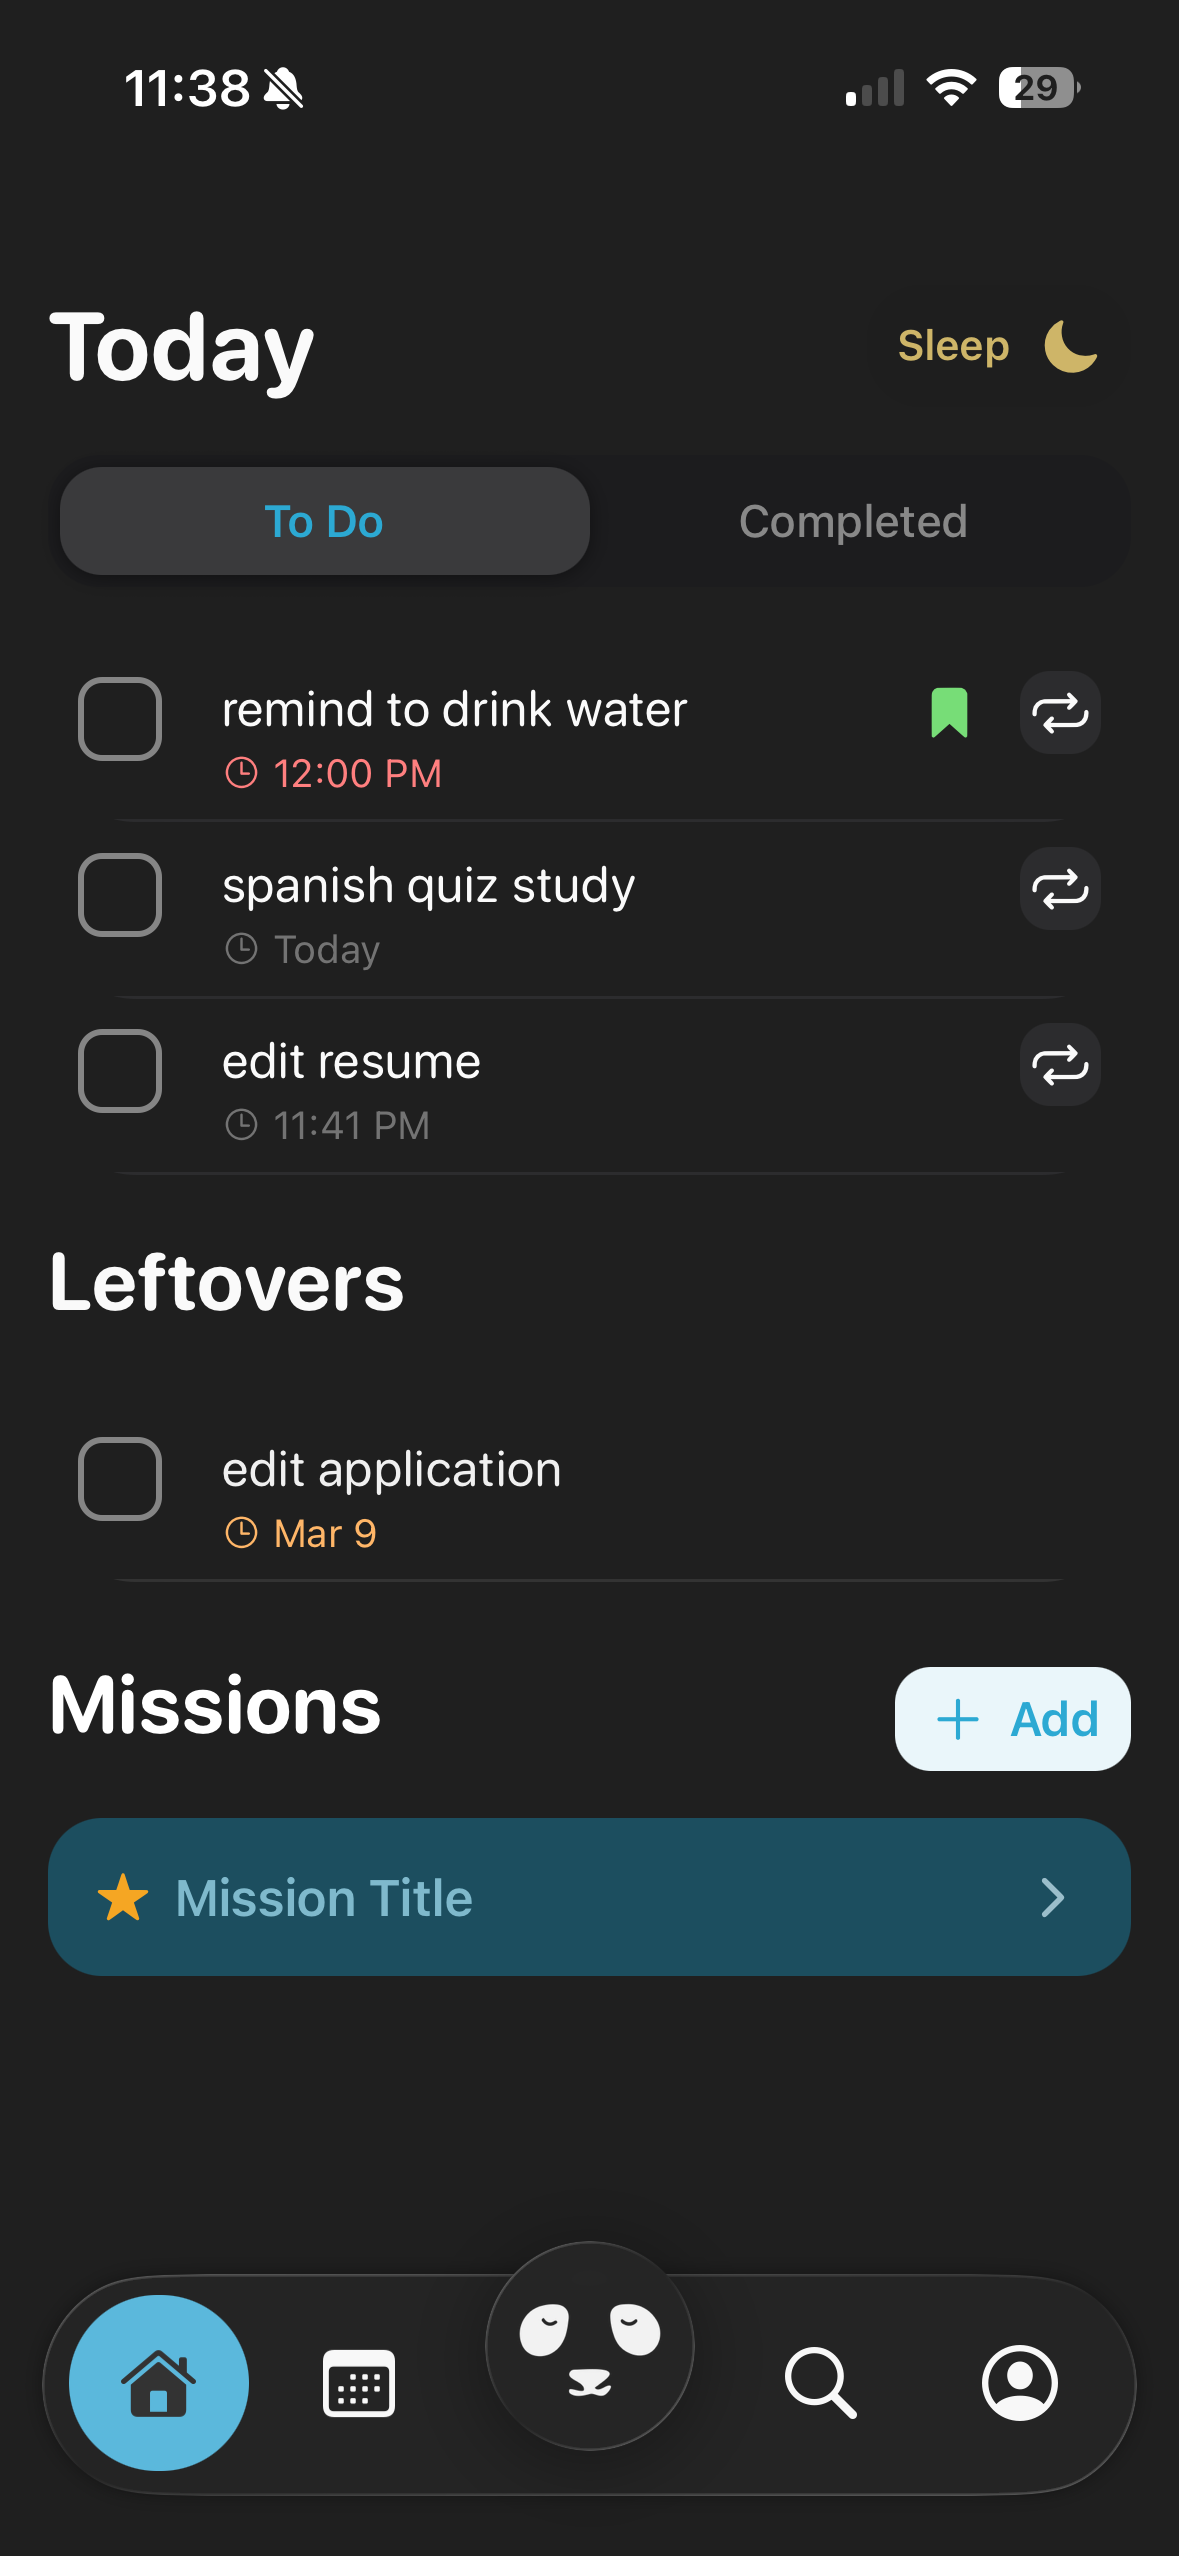
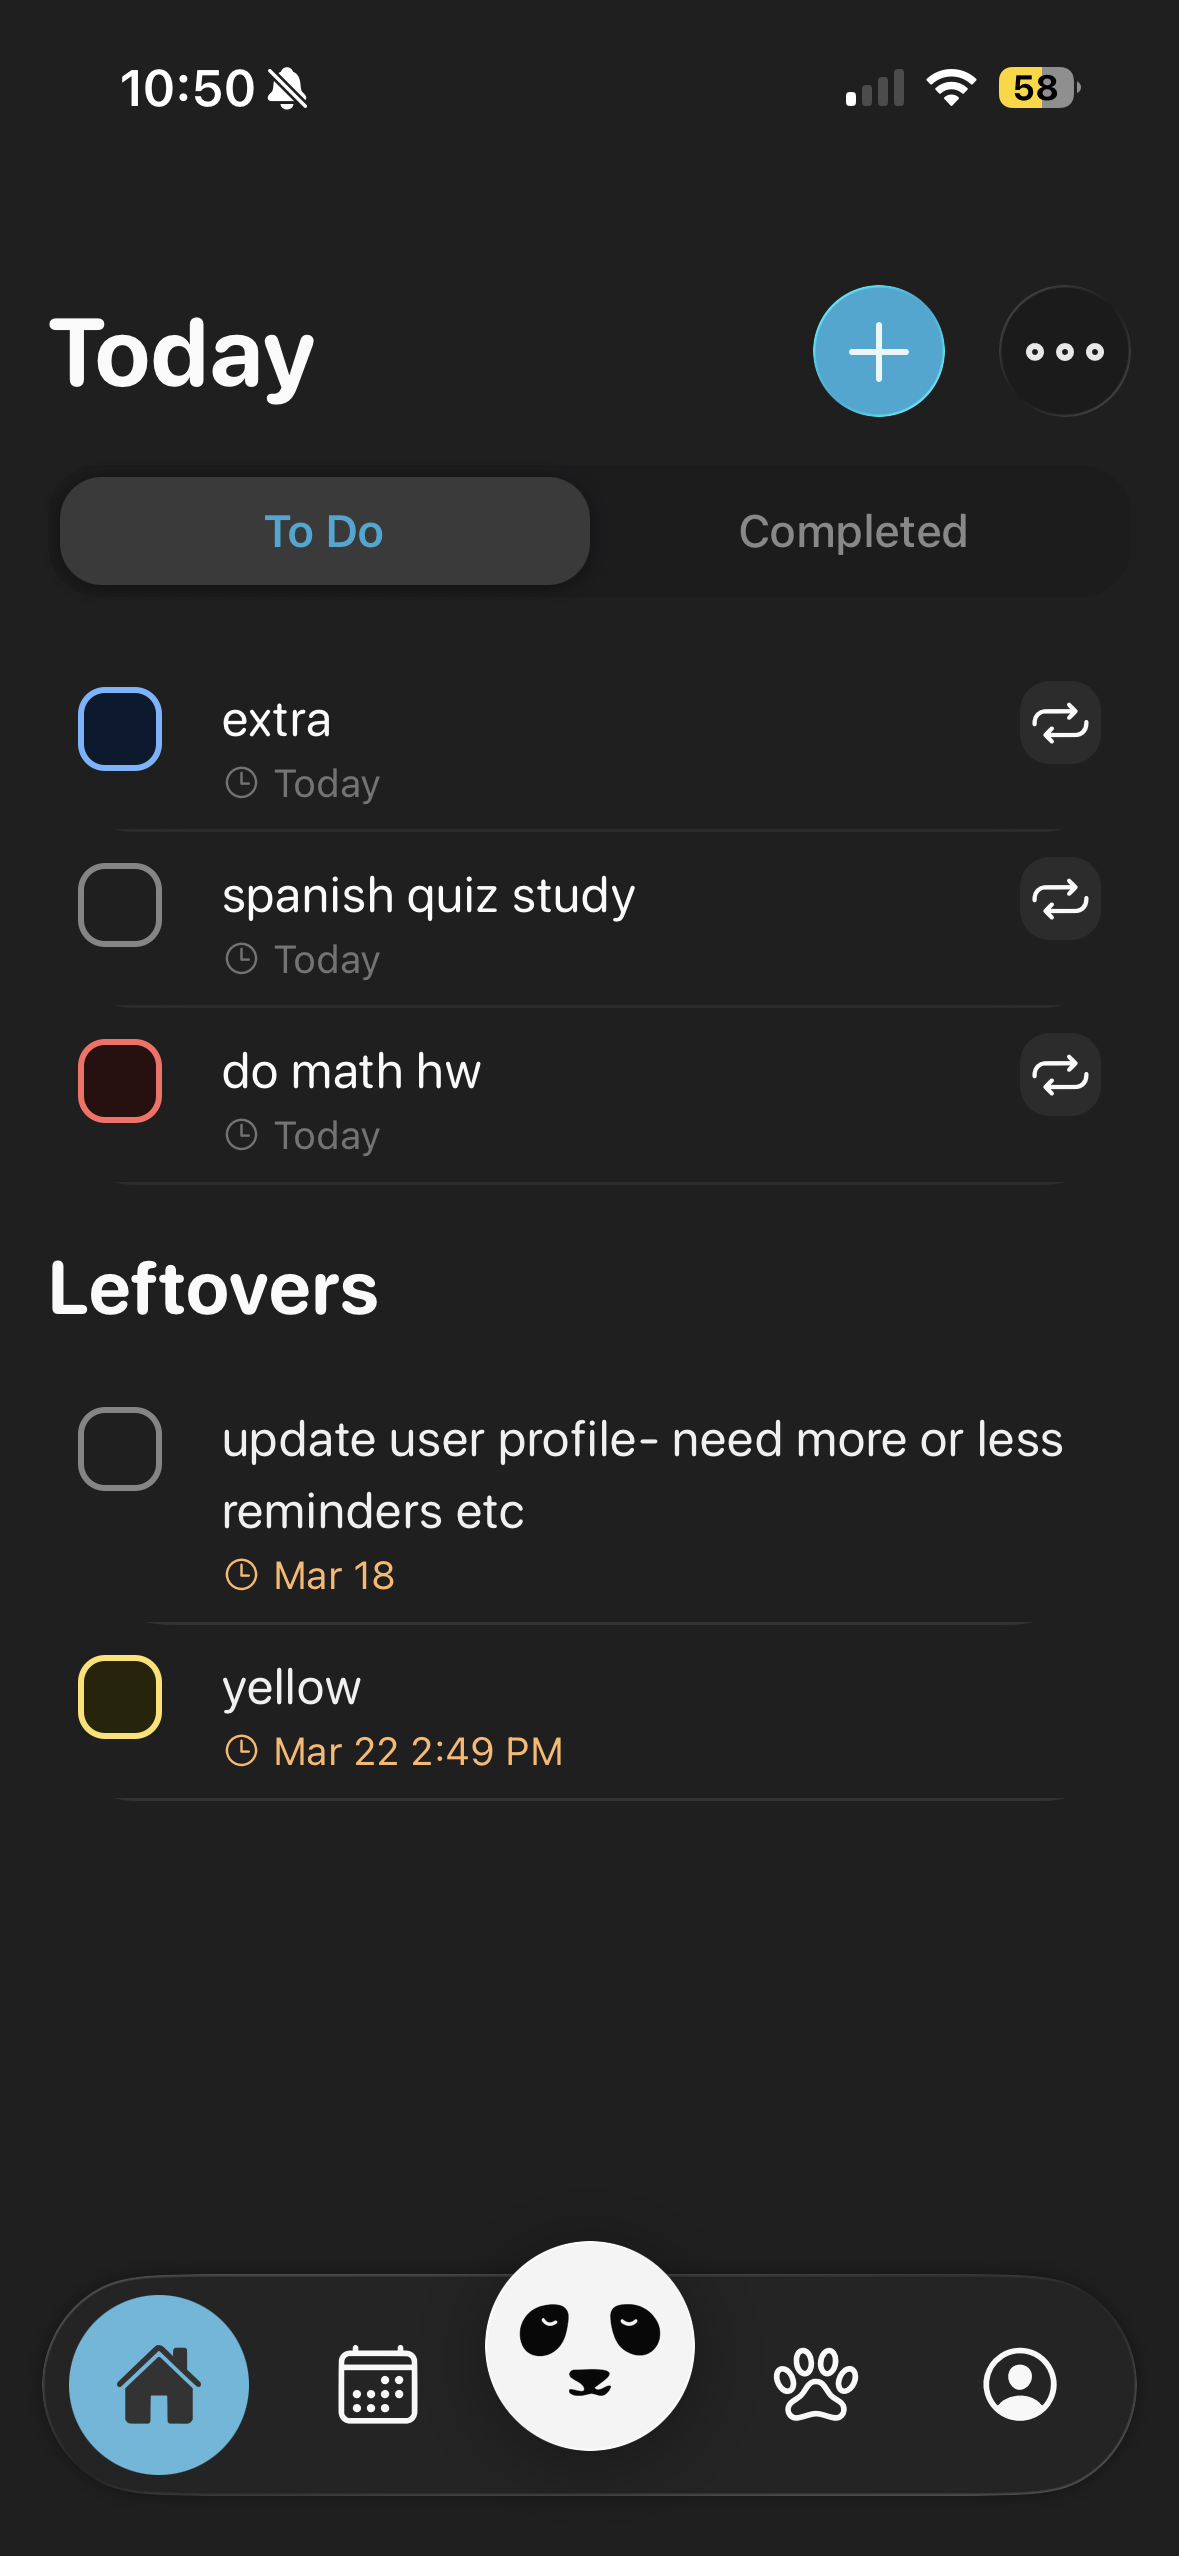
updating upcoming page and padding on projects

diff --git a/upcoming.html b/upcoming.html
@@ -149,6 +149,75 @@
         color: var(--muted);
       }
 
+      /* TECH SECTION (copied from project.html) */
+      .tech-section {
+        margin-top: 30px;
+        margin-bottom: 16px;
+      }
+
+      .tech-label {
+        font-family: "Montserrat", sans-serif;
+        font-size: 0.75rem;
+        color: var(--muted);
+        text-transform: uppercase;
+        letter-spacing: 0.05em;
+        margin-bottom: 6px;
+        display: block;
+      }
+
+      .tech-tags {
+        display: flex;
+        flex-wrap: wrap;
+        gap: 6px;
+      }
+
+      .tech-tag {
+        background: var(--surface);
+        border: 0.5px solid var(--border);
+        border-radius: 2px;
+        padding: 4px 8px;
+        font-size: 0.8rem;
+        color: var(--muted);
+        font-family: "Open Sans", sans-serif;
+      }
+
+      /* Relevant tech tag variants */
+      .tech-tag.react {
+        background: #2b6cbb20;
+        border-color: #2b6cbb;
+        color: #2b6cbb;
+      }
+
+      .tech-tag.typescript {
+        background: #2b6cbb20;
+        border-color: #2b6cbb;
+        color: #2b6cbb;
+      }
+
+      .tech-tag.ai {
+        background: #05966920;
+        border-color: #059669;
+        color: #059669;
+      }
+
+      .tech-tag.python {
+        background: #c5303020;
+        border-color: #c53030;
+        color: #c53030;
+      }
+
+      .tech-tag.sql {
+        background: #d9770620;
+        border-color: #d97706;
+        color: #d97706;
+      }
+
+      .tech-tag.ios {
+        background: #7c3aed20;
+        border-color: #7c3aed;
+        color: #7c3aed;
+      }
+
       /* ======================
        GALLERY
        ====================== */
@@ -170,7 +239,7 @@
 
       .gallery-item:hover {
         transform: translateY(-6px);
-        border-color: var(--accent-yellow);
+        border-color: var(--accent-gold);
       }
 
       .gallery-image {
@@ -262,9 +331,21 @@
         <img src="images/pandaimages/icon.png" alt="Task Panda" />
       </div>
 
-      <a class="github-link"
-        >Made with React Native and SQL (soon to incorporate AWS)</a
-      >
+      <div class="tech-section">
+       
+        <div class="tech-tags">
+          <span class="tech-tag react">React Native</span>
+          <span class="tech-tag typescript">TypeScript</span>
+          <span class="tech-tag ai">PostgreSQL</span>
+          <span class="tech-tag python">AWS S3</span>
+          <span class="tech-tag python">AWS Cognito</span>
+          <span class="tech-tag sql">SQL</span>
+          <span class="tech-tag ios">Kotlin (soon)</span>
+          <span class="tech-tag ios">Swift</span>
+        </div>
+      </div>
+
+      
 
       <p>
         Initially, I started the app to help myself with task management, but
@@ -272,44 +353,44 @@
         using AWS for authentication and object storage, while using PostgreSQL
         for the database.
         <br /><br />
-        Completing tasks is basic, but people need a structured way to complete
-        things in their life without burnout. Task Panda will offer many
-        features to help you focus on whats important, while having fun in our
-        interactive Panda Simulator. Task Panda offers features such as Hanging
+        Completing tasks is basic, but students need a structured way to complete
+        their school life without burnout. We help you become more focused on what matters, and realize
+        what holds you back. Task Panda offers features such as Hanging
         Deadlines, Schedule Automater, Ramble, and more features centered around
         students.
       </p>
 
       <div class="gallery-container">
         <div class="gallery-item">
-          <img src="images/pandaimages/1.png" class="gallery-image" />
+          <img src="images/pandaimages/1.PNG" class="gallery-image" />
           <div class="gallery-description">
             <h3>Ideal Homescreen (TODO)</h3>
             <p>
               This is what you will see every day when completing tasks. You can
-              have color tags, and repeating tasks.
+              have color tags, and repeating tasks. The page comes in many views, including a KanBan board.
             </p>
           </div>
         </div>
 
         <div class="gallery-item">
-          <img src="images/pandaimages/2.png" class="gallery-image" />
+          <img src="images/pandaimages/2.PNG" class="gallery-image" />
           <div class="gallery-description">
-            <h3>Completed Tasks</h3>
+            <h3>My Trail page</h3>
             <p>
-              This shows what you've completed today. When you enable repeating
-              tasks (Every day, or 2 days or week), they show with the symbol.
+              This is your page to check missions and deadlines, aka the neccesary, but not primary focus. Missions can 
+              be instances from a social studies project to starting a non profit, the organization is in your hands. Deadlines
+              hang over you as you browse.
             </p>
           </div>
         </div>
 
         <div class="gallery-item">
-          <img src="images/pandaimages/3.png" class="gallery-image" />
+          <img src="images/pandaimages/3.PNG" class="gallery-image" />
           <div class="gallery-description">
-            <h3>Add Mission Modal (example)</h3>
+            <h3>Add a Deadline modal</h3>
             <p>
-              This is how you would add a mission, this is one of many add
-              modals.
+              This is one of many add modals, as they all share similar UI/UX. In here, you can connect deadlines to subjects, 
+              add priorities, and dates and colors for your organization.
             </p>
           </div>
         </div>
@@ -335,3 +416,4 @@
     </div>
   </body>
 </html>
+

diff --git a/project.html b/project.html
@@ -417,6 +417,7 @@
       }
 
       .tech-section {
+        margin-top: 10px;
         margin-bottom: 16px;
       }
 
@@ -863,7 +864,7 @@
           </div>
 
           <div class="tech-section">
-            <span class="tech-label">Technologies</span>
+            
             <div class="tech-tags">
               <span class="tech-tag react">React</span>
               <span class="tech-tag typescript">TypeScript</span>
@@ -974,7 +975,7 @@
           </div>
 
           <div class="tech-section">
-            <span class="tech-label">Technologies</span>
+            
             <div class="tech-tags">
               <span class="tech-tag python">Python</span>
               <span class="tech-tag tkinter">Tkinter</span>
@@ -1071,7 +1072,7 @@
           </div>
 
           <div class="tech-section">
-            <span class="tech-label">Technologies</span>
+            
             <div class="tech-tags">
               <span class="tech-tag ios">SwiftUI</span>
               <span class="tech-tag sql">SwiftSQL</span>
@@ -1155,7 +1156,7 @@
           </div>
 
           <div class="tech-section">
-            <span class="tech-label">Technologies</span>
+            
             <div class="tech-tags">
               <span class="tech-tag python">Python</span>
               <span class="tech-tag tkinter">Tkinter</span>
@@ -1247,7 +1248,7 @@
           </div>
 
           <div class="tech-section">
-            <span class="tech-label">Technologies</span>
+            
             <div class="tech-tags">
               <span class="tech-tag python">Python</span>
               <span class="tech-tag tkinter">Tkinter</span>
